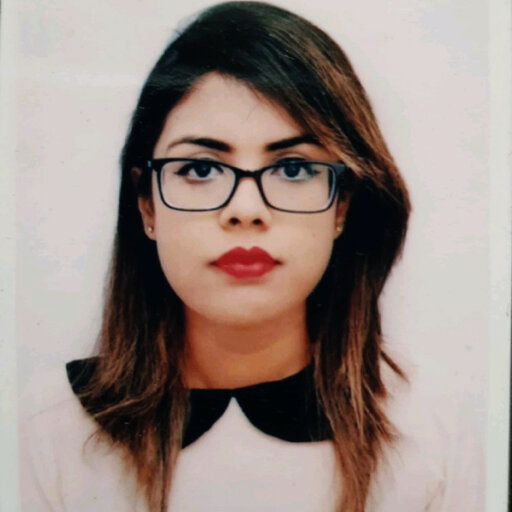
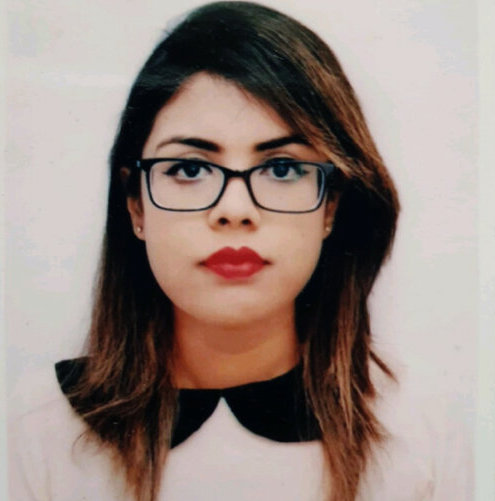
updated to people + typo

diff --git a/people.html b/people.html
@@ -345,6 +345,30 @@ $(document).ready(function () {
 <h1>Masters</h1>
 <div class="row">
 <div class="column left">
+<p><img src = "Aishi_Aratrika.jpg" align = "left" width = "100" height = "100"  /></p>
+</div>
+<div class="column right">
+<div id="aishi-aratrika" class="section level3">
+<h3><i class = "glyphicon glyphicon-user"> </i> Aishi Aratrika</h3>
+<p>MSc Student in Epidemiology (McGill). Research Topic:
+<em>TBD</em>.</p>
+</div>
+</div>
+</div>
+<div class="row">
+<div class="column left">
+<p><img src = "Andrey_Kutsyh.jpg" align = "left" width = "100" height = "100"  /></p>
+</div>
+<div class="column right">
+<div id="andrey-kutsyh" class="section level3">
+<h3><i class = "glyphicon glyphicon-user"> </i> Andrey Kutsyh</h3>
+<p>MSc Student in Epidemiology (McGill). Research Topic:
+<em>TBD</em>.</p>
+</div>
+</div>
+</div>
+<div class="row">
+<div class="column left">
 <p><img src = "Fanyu_Xiu.jpg" align = "left" width = "100" height = "100"  /></p>
 </div>
 <div class="column right">
@@ -372,9 +396,10 @@ Canada: implications the transmission and control of mpox</em>.</p>
 <div class="column right">
 <div id="james-stannah" class="section level3">
 <h3><i class = "glyphicon glyphicon-user"> </i> James Stannah</h3>
-<p>PhD Student in Epidemiology (McGill). Research Topic: <em>Structural
-determinants of HIV acquisition and transmission risks among men who
-have sex with men in sub-Saharan Africa</em>. Co-supervisor: <a
+<p>PhD Candidate in Epidemiology (McGill). Research Topic:
+<em>Structural determinants of HIV acquisition and transmission risks
+among men who have sex with men in sub-Saharan Africa</em>.
+Co-supervisor: <a
 href="https://www.imperial.ac.uk/people/mc.boily">Marie-Claude
 Boily</a>.</p>
 </div>
@@ -387,7 +412,7 @@ Boily</a>.</p>
 <div class="column right">
 <div id="salome-kuchukhidze" class="section level3">
 <h3><i class = "glyphicon glyphicon-user"> </i> Salome Kuchukhidze</h3>
-<p>PhD Student in Epidemiology (McGill). Research Topic: <em>Intimate
+<p>PhD Candidate in Epidemiology (McGill). Research Topic: <em>Intimate
 partner violence and its implication on women’s HIV outcomes</em>.</p>
 </div>
 </div>
@@ -399,10 +424,10 @@ partner violence and its implication on women’s HIV outcomes</em>.</p>
 <div class="column right">
 <div id="yiqing-xia" class="section level3">
 <h3><i class = "glyphicon glyphicon-user"> </i> Yiqing Xia</h3>
-<p>PhD Student in Epidemiology (McGill). Research Topic: <em>SARS-CoV-2
-epidemics in Canada: heterogeneities in transmission, severe outcomes
-following hospitalization, and provincial mathematical modeling
-efforts</em>.</p>
+<p>PhD Candidate in Epidemiology (McGill). Research Topic:
+<em>SARS-CoV-2 epidemics in Canada: heterogeneities in transmission,
+severe outcomes following hospitalization, and provincial mathematical
+modeling efforts</em>.</p>
 </div>
 </div>
 </div>

diff --git a/publications.html b/publications.html
@@ -369,7 +369,7 @@ O, N’Guessan KN, Younoussa S, Kabemba OK, Gueye PA, Dama Ndeye P,
 Mukandavire C, Vickerman P, Keita A, Ndour CT, Ehui E, Larmarange J,
 Boily MC, and the ATLAS Team (2023). The impact of past HIV
 interventions and treatment gaps to new HIV acquisitions, transmissions,
-and HIV-related deaths in Côte d’Ivoire, Mali, and Senegal</p>
+and HIV-related deaths in Côte d’Ivoire, Mali, and Senegal.</p>
 </div>
 </div>
 <div id="section-5" class="section level1">
@@ -517,7 +517,7 @@ href="https://doi.org/10.1101/2023.11.09.23298289">here</a>.</p>
 <div id="section-17" class="section level1">
 <h1></h1>
 <div class="class-name">
-<p><strong>[101]</strong> Xia Y, Flores Anato JL, Colijin C, Janjua N,
+<p><strong>[101]</strong> Xia Y, Flores Anato JL, Colijn C, Janjua N,
 Otterstatter M, Irvine N, Tyler Williamson, Varughese MB, Li M, Osgood
 N, Earn DJD, Sander B, Cipriano LE, Murthy K, Xiu F, Godin G, Buckeridge
 DL, Hurford H, Sharmistha Mishra S, and <strong>Maheu-Giroux M</strong>
@@ -1067,7 +1067,7 @@ among people living with HIV in four sub-Saharan Africa countries.
 </div>
 <div id="section-65" class="section level1">
 <h1></h1>
-<p><a class="one" href = "https://doi.org/ 10.1016/j.ijid.2020.10.046" target = "_blank">
+<p><a class="one" href = "https://doi.org/10.1016/j.ijid.2020.10.046" target = "_blank">
 <strong>[45]</strong> Godin A+, Xia Y+ (+ co-first author), Buckeridge
 D, Mishra S, Douwes-Schultz D, Shen Y, Lavigne M, Drolet M, Schmidt A,
 Brisson M, and <strong>Maheu-Giroux M</strong> (2021). The role of case
